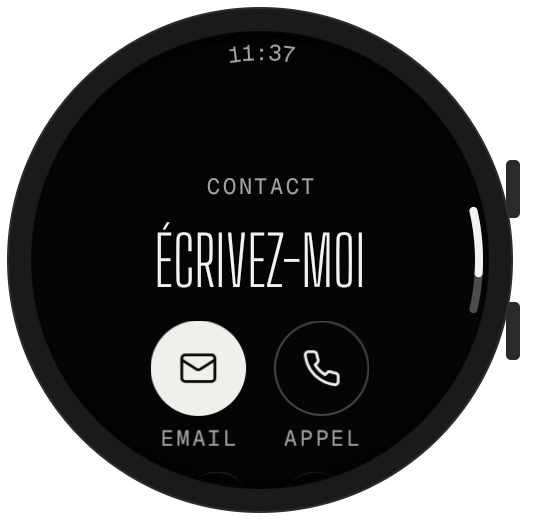
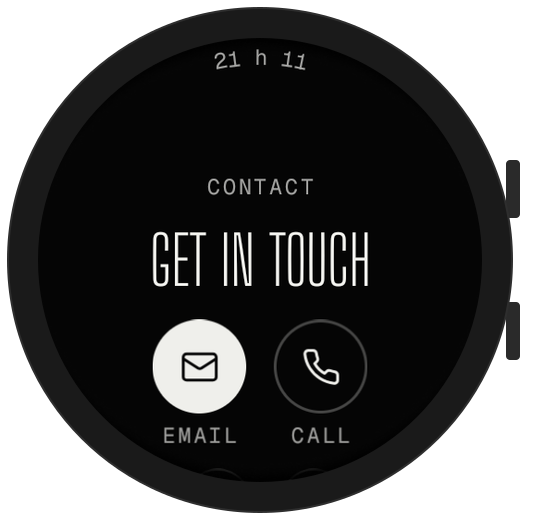
docs: README en anglais et captures à jour (#10)

diff --git a/README.md b/README.md
@@ -1,139 +1,148 @@
 <p align="center">
-  <img src="docs/banner.png" alt="Portfolio de Christen Dijoux — version montre (Wear OS)" width="100%">
+  <img src="docs/banner.png" alt="Christen Dijoux's portfolio — watch edition (Wear OS)" width="100%">
 </p>
 
 <p align="center">
   <a href="https://github.com/Akiyo974/portfolio-watch/actions/workflows/android.yml"><img src="https://img.shields.io/github/actions/workflow/status/Akiyo974/portfolio-watch/android.yml?branch=main&style=flat-square&labelColor=050505&color=f2f2ee&label=build" alt="Build"></a>
-  <a href="https://github.com/Akiyo974/portfolio-watch/releases/latest"><img src="https://img.shields.io/github/v/release/Akiyo974/portfolio-watch?style=flat-square&labelColor=050505&color=f2f2ee&label=version" alt="Dernière version"></a>
+  <a href="https://github.com/Akiyo974/portfolio-watch/releases/latest"><img src="https://img.shields.io/github/v/release/Akiyo974/portfolio-watch?style=flat-square&labelColor=050505&color=f2f2ee&label=version" alt="Latest release"></a>
   <img src="https://img.shields.io/badge/Wear%20OS-3%2B-f2f2ee?style=flat-square&labelColor=050505&logo=wearos&logoColor=f2f2ee" alt="Wear OS 3+">
   <img src="https://img.shields.io/badge/Kotlin-2.1-f2f2ee?style=flat-square&labelColor=050505&logo=kotlin&logoColor=f2f2ee" alt="Kotlin 2.1">
   <img src="https://img.shields.io/badge/Compose%20for%20Wear%20OS-1.4-f2f2ee?style=flat-square&labelColor=050505&logo=jetpackcompose&logoColor=f2f2ee" alt="Compose for Wear OS 1.4">
-  <img src="https://img.shields.io/github/license/Akiyo974/portfolio-watch?style=flat-square&labelColor=050505&color=f2f2ee" alt="Licence MIT">
+  <img src="https://img.shields.io/github/license/Akiyo974/portfolio-watch?style=flat-square&labelColor=050505&color=f2f2ee" alt="MIT license">
 </p>
 
 <p align="center">
   <a href="https://christendijoux.com"><b>christendijoux.com</b></a> ·
-  <a href="#aperçu">Aperçu</a> ·
-  <a href="#installer-lapp">Installer</a> ·
-  <a href="#développement">Développement</a> ·
-  <a href="#feuille-de-route">Feuille de route</a>
+  <a href="#preview">Preview</a> ·
+  <a href="#install">Install</a> ·
+  <a href="#development">Development</a> ·
+  <a href="#roadmap">Roadmap</a>
 </p>
 
 ---
 
-Mon [portfolio](https://christendijoux.com), repensé pour un écran rond d'un pouce et demi.
-Une app **Wear OS** pensée pour la **Samsung Galaxy Watch** : mes projets, mon parcours et un moyen de me joindre, au poignet, en trois touches au plus.
+My [portfolio](https://christendijoux.com), redesigned for a round screen an inch and a half wide.
+A **Wear OS** app built for the **Samsung Galaxy Watch**: my projects, my journey and a way to reach me, on the wrist, in three taps or less.
 
-Elle reprend l'identité du site — monochrome, éditoriale, typographie condensée — et l'adapte aux codes de Wear OS : heure en haut qui s'efface au défilement, listes qui suivent la courbe de l'écran, défilement à la lunette, retour en glissant vers la droite.
+It carries over the website's identity — monochrome, editorial, condensed type — and adapts it to Wear OS conventions: a clock at the top that fades as you scroll, lists that follow the curve of the screen, bezel scrolling, and swipe-right to go back.
 
-## Aperçu
+## Preview
 
 <table>
   <tr>
-    <td align="center"><img src="docs/screens/01-accueil.png" width="200" alt="Accueil"><br><sub><b>Accueil</b><br>Heure en direct, projets, km</sub></td>
-    <td align="center"><img src="docs/screens/02-menu.png" width="200" alt="Menu"><br><sub><b>Menu</b><br>Navigation numérotée</sub></td>
-    <td align="center"><img src="docs/screens/03-projets.png" width="200" alt="Liste des projets"><br><sub><b>Projets</b><br>Les 7 projets du portfolio</sub></td>
-    <td align="center"><img src="docs/screens/04-etude-de-cas.png" width="200" alt="Étude de cas"><br><sub><b>Étude de cas</b><br>Résumé, ouverture sur le téléphone</sub></td>
+    <td align="center"><img src="docs/screens/01-home.png" width="160" alt="Home"><br><sub><b>Home</b><br>Live time, projects, km</sub></td>
+    <td align="center"><img src="docs/screens/02-menu.png" width="160" alt="Menu"><br><sub><b>Menu</b><br>FR / EN switch, numbered entries</sub></td>
+    <td align="center"><img src="docs/screens/03-projects.png" width="160" alt="Projects"><br><sub><b>Projects</b><br>The 7 portfolio projects</sub></td>
+    <td align="center"><img src="docs/screens/04-case-study.png" width="160" alt="Case study"><br><sub><b>Case study</b><br>Summary, opens on the phone</sub></td>
+    <td align="center"><img src="docs/screens/05-journey.png" width="160" alt="Journey"><br><sub><b>Journey</b><br>Réunion Island → Saguenay</sub></td>
   </tr>
   <tr>
-    <td align="center"><img src="docs/screens/05-parcours.png" width="200" alt="Parcours"><br><sub><b>Parcours</b><br>La Réunion → Saguenay</sub></td>
-    <td align="center"><img src="docs/screens/06-contact.png" width="200" alt="Contact"><br><sub><b>Contact</b><br>E-mail, appel, LinkedIn, GitHub</sub></td>
-    <td align="center"><img src="docs/screens/07-jeu.png" width="200" alt="Jeu des étoiles"><br><sub><b>Jeu des étoiles</b><br>Dernier score et record</sub></td>
-    <td align="center"><img src="docs/screens/08-partie.png" width="200" alt="Partie en cours"><br><sub><b>Partie en cours</b><br>20 s, anneau de temps</sub></td>
+    <td align="center"><img src="docs/screens/06-contact.png" width="160" alt="Contact"><br><sub><b>Contact</b><br>Email, call, LinkedIn, GitHub</sub></td>
+    <td align="center"><img src="docs/screens/07-qr.png" width="160" alt="Business card QR code"><br><sub><b>My card</b><br>vCard QR code to scan</sub></td>
+    <td align="center"><img src="docs/screens/08-game.png" width="160" alt="Star game"><br><sub><b>Star game</b><br>Last score and best</sub></td>
+    <td align="center"><img src="docs/screens/09-playing.png" width="160" alt="Game in progress"><br><sub><b>Playing</b><br>20 s, time ring</sub></td>
+    <td align="center"><img src="docs/screens/10-tile.png" width="160" alt="Contact card tile"><br><sub><b>Tile</b><br>QR, call, email from the watch face</sub></td>
   </tr>
 </table>
 
-<sub>Captures de l'app réelle dans l'émulateur Wear OS 5 (Large Round, 454 px). Les maquettes de conception d'origine sont dans <a href="docs/design">docs/design</a>.</sub>
+<sub>Screenshots of the real app on a Samsung Galaxy Watch (Wear OS 6, 480 px). The original design mockups are in <a href="docs/design">docs/design</a>.</sub>
 
-## Fonctionnalités
+## Features
 
-- **Accueil façon cadran** — heure et date en direct, graduation des minutes, nom écrit le long du bord, disponibilité et deux complications. Un toucher ouvre le menu.
-- **Projets** — les sept projets du portfolio avec année et statut ; chaque étude de cas s'**ouvre en entier sur le téléphone** associé.
-- **Parcours** — 14 420 km de La Réunion à Saguenay, tracés le long de la lunette, puis les expériences récentes.
-- **Contact** — e-mail, appel, LinkedIn et GitHub en un toucher. L'appel part de la montre si elle le permet, sinon du téléphone.
-- **Jeu des étoiles** — le clin d'œil caché du site : un maximum d'étoiles en 20 secondes, avec vibration à chaque touche et record gardé sur la montre.
-- **Autonome** — aucune app compagnon à installer sur le téléphone.
+- **Watch-face home** — live time and date, minute ticks, name written along the edge, availability and two complications. One tap opens the menu.
+- **Projects** — the seven portfolio projects with year and status; each case study **opens in full on the paired phone**.
+- **Journey** — 14,420 km from Réunion Island to Saguenay, drawn along the bezel, followed by recent roles.
+- **Contact** — email, call, LinkedIn and GitHub in one tap. Calls go out from the watch when it can, otherwise from the phone.
+- **Business card QR code** — name, title, company, phone, email, city, website, LinkedIn and GitHub as a vCard; scanning it with a phone camera offers to add the contact. Full brightness and screen kept on while it is shown.
+- **Contact card tile** — swipe from the watch face to see availability and jump straight to the QR code, a call or an email.
+- **Star game** — the website's hidden easter egg: catch as many stars as you can in 20 seconds, with haptics on every hit and the best score kept on the watch.
+- **English and French** — follows the watch language by default; a FR / EN switch at the top of the menu overrides it and is remembered (the tile follows too).
+- **Standalone** — no companion app needed on the phone.
 
-## Installer l'app
+## Install
 
-### Depuis une release
+### From a release
 
-1. Téléchargez `portfolio-watch-v*.apk` depuis la [dernière release](https://github.com/Akiyo974/portfolio-watch/releases/latest).
-2. Sur la montre : *Paramètres → À propos de la montre → Informations sur le logiciel*, touchez 5 fois **Version du logiciel** pour activer le mode développeur.
-3. *Paramètres → Options de développement* : activez **Débogage ADB** et **Débogage sans fil**, puis notez l'adresse IP et les ports affichés.
-4. Depuis l'ordinateur, sur le même réseau Wi-Fi :
+1. Download `portfolio-watch-v*.apk` from the [latest release](https://github.com/Akiyo974/portfolio-watch/releases/latest).
+2. On the watch: *Settings → About watch → Software information*, tap **Software version** 5 times to enable developer mode.
+3. *Settings → Developer options*: turn on **ADB debugging** and **Wireless debugging**, then note the IP address and ports shown.
+4. From the computer, on the same Wi-Fi network:
 
 ```bash
-adb pair <IP>:<PORT_D_APPAIRAGE>
+adb pair <IP>:<PAIRING_PORT>
 adb connect <IP>:<PORT>
 adb install -r portfolio-watch-v0.3.0.apk
 ```
 
-`-r` met à jour l'app déjà installée en gardant ses données. Depuis la v0.2.0, les releases sont signées avec la même clé : les mises à jour s'installent par-dessus. Pour passer de la v0.1.0 (ou d'un APK de debug) à une release, désinstallez une fois l'ancienne version (`adb uninstall com.christendijoux.watch`).
+`-r` updates the installed app and keeps its data. Since v0.2.0, releases are signed with the same key, so updates install on top of each other. To move from v0.1.0 (or a debug APK) to a release, uninstall the old version once (`adb uninstall com.christendijoux.watch`).
 
-### Depuis la CI
+> Some Wi-Fi networks (school, office, guest) isolate devices from each other and `adb pair` fails with *protocol fault*. Connect the computer and the watch to your phone's hotspot instead.
 
-Chaque push sur `main` compile l'app : l'APK de debug est téléchargeable dans les artefacts du [dernier build](https://github.com/Akiyo974/portfolio-watch/actions/workflows/android.yml). Il est signé avec une clé de debug qui change d'un build à l'autre : il faut désinstaller l'app avant de l'installer.
+To add the tile: long-press the watch face or swipe to the end of your tiles, tap **+**, then **Contact card**.
 
-## Développement
+### From CI
 
-### Prérequis
+Every push to `main` builds the app: the debug APK can be downloaded from the artifacts of the [latest build](https://github.com/Akiyo974/portfolio-watch/actions/workflows/android.yml). It is signed with a debug key that changes from one build to the next, so the app has to be uninstalled first.
+
+## Development
+
+### Requirements
 
 - JDK 17
-- SDK Android (plateforme 35) — via [Android Studio](https://developer.android.com/studio) ou les outils en ligne de commande
-- Une Galaxy Watch sous Wear OS 3+ **ou** l'émulateur *Wear OS Large Round*
+- Android SDK (platform 35) — via [Android Studio](https://developer.android.com/studio) or the command-line tools
+- A Galaxy Watch on Wear OS 3+ **or** the *Wear OS Large Round* emulator
 
-### Compiler et lancer
+### Build and run
 
 ```bash
 git clone https://github.com/Akiyo974/portfolio-watch.git
 cd portfolio-watch
-./gradlew assembleDebug      # APK dans app/build/outputs/apk/debug/
-./gradlew installDebug       # installe sur la montre ou l'émulateur connecté
-./gradlew lintDebug          # analyse statique Android
+./gradlew assembleDebug      # APK in app/build/outputs/apk/debug/
+./gradlew installDebug       # installs on the connected watch or emulator
+./gradlew lintDebug          # Android static analysis
 ```
 
-Sans Android Studio, indiquez l'emplacement du SDK dans un fichier `local.properties` (non versionné) :
+Without Android Studio, point to the SDK in a `local.properties` file (not versioned):
 
 ```properties
-sdk.dir=C:/Users/<vous>/Android/Sdk
+sdk.dir=C:/Users/<you>/Android/Sdk
 ```
 
-### Publier une release
+### Publish a release
 
-1. Mettre à jour `versionCode` et `versionName` dans `app/build.gradle.kts`, et la section correspondante du [CHANGELOG](CHANGELOG.md).
-2. Une fois sur `main`, pousser le tag de la version :
+1. Bump `versionCode` and `versionName` in `app/build.gradle.kts`, and date the matching section of the [CHANGELOG](CHANGELOG.md).
+2. Once it is on `main`, push the version tag:
 
 ```bash
-git tag v0.2.0
-git push origin v0.2.0
+git tag v0.3.0
+git push origin v0.3.0
 ```
 
-Le workflow [Release](.github/workflows/release.yml) vérifie que le tag correspond à `versionName`, compile l'APK signé, puis publie la release avec ses notes tirées du CHANGELOG.
+The [Release](.github/workflows/release.yml) workflow checks that the tag matches `versionName`, builds the signed APK, then publishes the release with notes taken from the CHANGELOG.
 
-La signature utilise une clé PKCS12 fixe (alias `portfolio-watch`), jamais versionnée, fournie par deux secrets du dépôt (*Settings → Secrets and variables → Actions*) :
+Signing uses a fixed PKCS12 key (alias `portfolio-watch`), never versioned, provided by two repository secrets (*Settings → Secrets and variables → Actions*):
 
-| Secret | Contenu |
+| Secret | Content |
 |---|---|
-| `SIGNING_KEYSTORE_BASE64` | Le fichier `.p12` encodé en base64 |
-| `SIGNING_PASSWORD` | Son mot de passe |
+| `SIGNING_KEYSTORE_BASE64` | The `.p12` file, base64-encoded |
+| `SIGNING_PASSWORD` | Its password |
 
-Pour signer en local, définir `SIGNING_STORE_FILE`, `SIGNING_STORE_PASSWORD`, `SIGNING_KEY_ALIAS` et `SIGNING_KEY_PASSWORD` avant `./gradlew assembleRelease`. Sans ces variables, l'APK de release est produit non signé.
+To sign locally, set `SIGNING_STORE_FILE`, `SIGNING_STORE_PASSWORD`, `SIGNING_KEY_ALIAS` and `SIGNING_KEY_PASSWORD` before `./gradlew assembleRelease`. Without them, the release APK is built unsigned.
 
-### Stack technique
+### Tech stack
 
-| Couche | Choix |
+| Layer | Choice |
 |---|---|
-| Langage | Kotlin 2.1 |
-| Interface | Jetpack Compose for Wear OS 1.4 (`compose-material`, `compose-foundation`) |
-| Navigation | `SwipeDismissableNavHost` : glisser vers la droite ou bouton retour |
-| Listes | `ScalingLazyColumn`, défilement à la lunette, `PositionIndicator` courbe |
-| Ouverture sur téléphone | `RemoteActivityHelper` (`androidx.wear:wear-remote-interactions`) |
-| Carte de visite | QR code vCard généré sur la montre ([ZXing](https://github.com/zxing/zxing)) |
-| Tuile | Jetpack Tiles + ProtoLayout Material (`androidx.wear.tiles`) |
-| Polices | Big Shoulders Display, Geist, Geist Mono — fichiers variables embarqués |
+| Language | Kotlin 2.1 |
+| UI | Jetpack Compose for Wear OS 1.4 (`compose-material`, `compose-foundation`) |
+| Navigation | `SwipeDismissableNavHost`: swipe right or back button |
+| Lists | `ScalingLazyColumn`, bezel scrolling, curved `PositionIndicator` |
+| Open on phone | `RemoteActivityHelper` (`androidx.wear:wear-remote-interactions`) |
+| Business card | vCard QR code generated on the watch ([ZXing](https://github.com/zxing/zxing)) |
+| Tile | Jetpack Tiles + ProtoLayout Material (`androidx.wear.tiles`) |
+| Fonts | Big Shoulders Display, Geist, Geist Mono — bundled variable fonts |
 | Build | Gradle 8.11 · AGP 8.7 · JDK 17 · GitHub Actions |
-| Cible | Wear OS 3+ (API 30 à 35), Galaxy Watch 4 et modèles plus récents |
+| Target | Wear OS 3+ (API 30 and up), Galaxy Watch 4 and newer |
 
 ### Structure
 
@@ -141,58 +150,58 @@ Pour signer en local, définir `SIGNING_STORE_FILE`, `SIGNING_STORE_PASSWORD`, `
 portfolio-watch/
 ├── app/src/main/
 │   ├── java/com/christendijoux/watch/
-│   │   ├── MainActivity.kt
-│   │   ├── data/Portfolio.kt         # Projets, parcours, liens (repris du site)
-│   │   ├── data/ContactCard.kt       # Carte de visite vCard et QR code
-│   │   ├── util/Phone.kt             # Ouverture sur le téléphone, appel
-│   │   ├── util/Clock.kt             # Heure mise à jour à chaque minute
-│   │   ├── tile/ContactTileService.kt  # Tuile : dispo, QR, appel, e-mail
+│   │   ├── MainActivity.kt           # Entry point, app language, tile shortcuts
+│   │   ├── data/Portfolio.kt         # Projects, journey, links (from the website)
+│   │   ├── data/ContactCard.kt       # vCard business card and QR code
+│   │   ├── tile/ContactTileService.kt # Tile: availability, QR, call, email
+│   │   ├── util/                     # Open on phone, clock, app language
 │   │   └── ui/
-│   │       ├── WearApp.kt            # Navigation entre les écrans
-│   │       ├── theme/Theme.kt        # Couleurs, polices, styles de texte
-│   │       ├── components/           # Étiquettes, boutons, icônes
-│   │       └── screens/              # Accueil, Menu, Projets, Projet, Parcours, Contact, QR, Jeu
-│   └── res/                          # Polices, icône, thème, textes EN (values) et FR (values-fr)
-├── .github/workflows/android.yml     # Build, lint et APK à chaque push
-├── .github/workflows/release.yml     # APK signé et release à chaque tag v*
+│   │       ├── WearApp.kt            # Navigation between screens
+│   │       ├── theme/Theme.kt        # Colors, fonts, text styles
+│   │       ├── components/           # Labels, buttons, icons
+│   │       └── screens/              # Home, Menu, Projects, Project, Journey, Contact, QR, Game
+│   └── res/                          # Fonts, icons, theme, EN (values) and FR (values-fr) strings
+├── .github/workflows/android.yml     # Build, lint and APK on every push
+├── .github/workflows/release.yml     # Signed APK and release on every v* tag
 ├── docs/
-│   ├── screens/                      # Captures de l'app
-│   └── design/                       # Maquettes de conception
-└── third_party/fonts/                # Licences OFL des polices
+│   ├── screens/                      # App screenshots
+│   └── design/                       # Design mockups
+└── third_party/fonts/                # Font licenses (OFL)
 ```
 
 ### Design
 
 | | |
 |---|---|
-| **Couleurs** | Encre `#050505` · Papier `#F2F2EE` · Lignes à 16–28 % d'opacité |
-| **Typographies** | [Big Shoulders Display](https://fonts.google.com/specimen/Big+Shoulders+Display) (titres) · [Geist](https://vercel.com/font) (texte) · Geist Mono (étiquettes) |
-| **Principes** | Contenu dans la zone sûre centrale, cibles tactiles ≥ 48 dp, texte qui suit la courbe de l'écran |
+| **Colors** | Ink `#050505` · Paper `#F2F2EE` · Lines at 16–28 % opacity |
+| **Typefaces** | [Big Shoulders Display](https://fonts.google.com/specimen/Big+Shoulders+Display) (titles) · [Geist](https://vercel.com/font) (body) · Geist Mono (labels) |
+| **Principles** | Content inside the central safe zone, touch targets ≥ 48 dp, text that follows the curve of the screen |
 
-## Feuille de route
+## Roadmap
 
-- [x] Maquettes des écrans (format rond)
-- [x] App Wear OS : accueil, menu, projets, étude de cas, parcours, contact, jeu
-- [x] Ouverture des liens sur le téléphone
-- [x] Tests dans l'émulateur Wear OS 5 et captures réelles
-- [x] Intégration continue (build, lint, APK)
-- [x] Carte de visite en QR code
-- [x] Version anglaise
-- [x] Releases signées publiées automatiquement
-- [ ] Test sur une vraie Galaxy Watch (lunette tournante, téléphone associé)
-- [ ] Cadran installable (Watch Face Format)
-- [x] Tuile Wear OS (disponibilité, carte QR, appel, e-mail)
-- [ ] Publication sur le Google Play Store
+- [x] Screen mockups (round format)
+- [x] Wear OS app: home, menu, projects, case study, journey, contact, game
+- [x] Links open on the phone
+- [x] Continuous integration (build, lint, APK)
+- [x] Business card QR code
+- [x] English version and in-app FR / EN switch
+- [x] Signed releases published automatically
+- [x] Wear OS tile (availability, QR card, call, email)
+- [x] Tested on a real Galaxy Watch
+- [ ] QR code kept visible in always-on mode
+- [ ] Projects loaded from the website instead of hard-coded
+- [ ] Installable watch face (Watch Face Format)
+- [ ] Google Play Store release
 
-Les évolutions sont détaillées dans le [CHANGELOG](CHANGELOG.md).
+Changes are detailed in the [CHANGELOG](CHANGELOG.md) (in French).
 
-## Liens
+## Links
 
-- Portfolio web : [christendijoux.com](https://christendijoux.com) — code : [Akiyo974/portfolio](https://github.com/Akiyo974/portfolio)
-- LinkedIn : [christen-dijoux](https://www.linkedin.com/in/christen-dijoux)
+- Web portfolio: [christendijoux.com](https://christendijoux.com) — code: [Akiyo974/portfolio](https://github.com/Akiyo974/portfolio)
+- LinkedIn: [christen-dijoux](https://www.linkedin.com/in/christen-dijoux)
 
-## Licence
+## License
 
-Code distribué sous licence [MIT](LICENSE). © 2026 Christen Dijoux.
+Code released under the [MIT](LICENSE) license. © 2026 Christen Dijoux.
 
-Polices sous [SIL Open Font License](third_party/fonts) : Big Shoulders Display (The Big Shoulders Project Authors), Geist et Geist Mono (The Geist Project Authors). Icônes d'après [Lucide](https://lucide.dev) (ISC).
+Fonts under the [SIL Open Font License](third_party/fonts): Big Shoulders Display (The Big Shoulders Project Authors), Geist and Geist Mono (The Geist Project Authors). Icons based on [Lucide](https://lucide.dev) (ISC).
